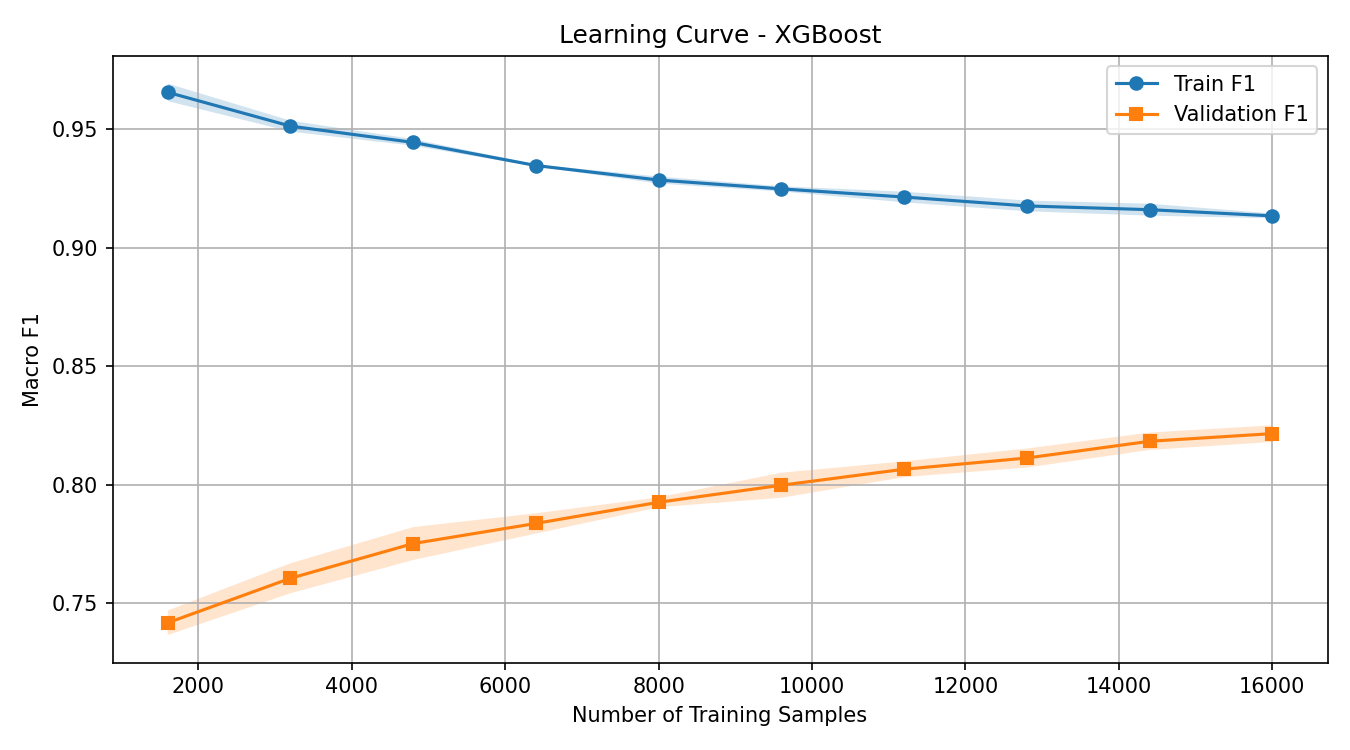
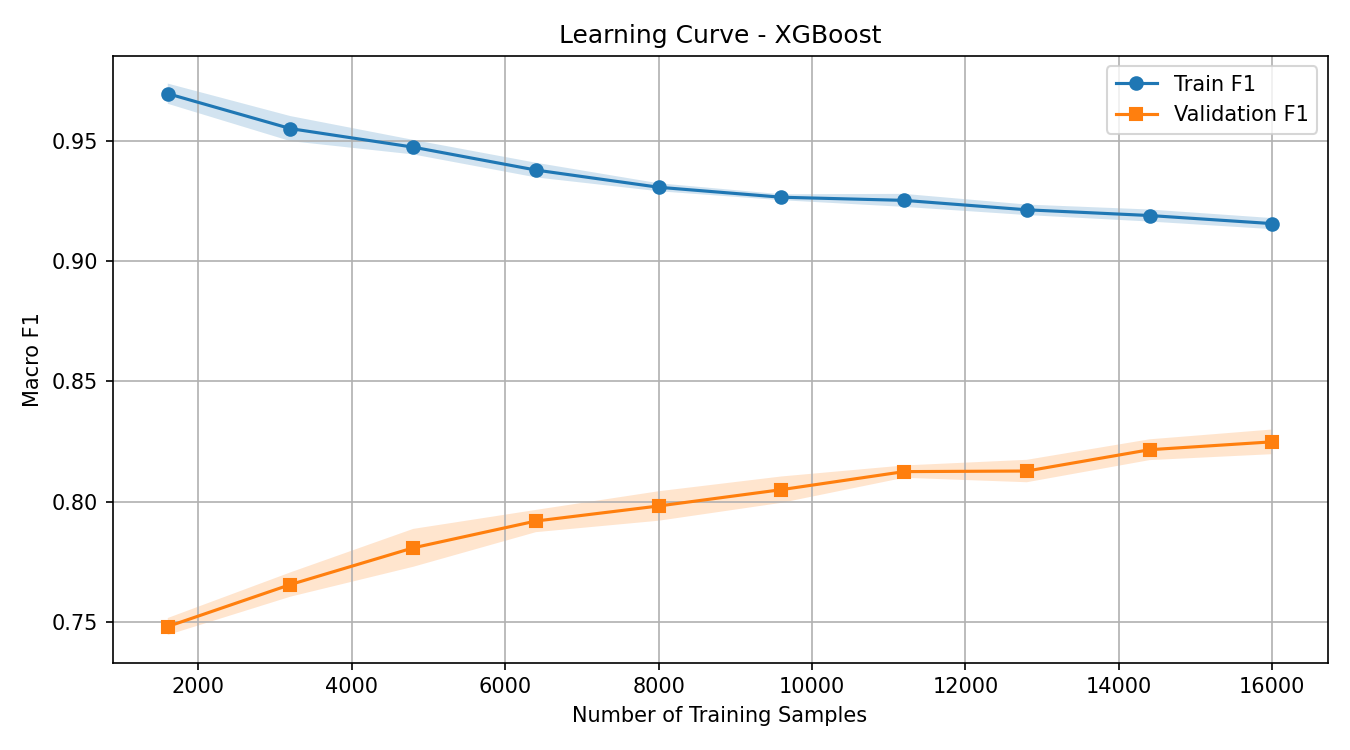
preprocessor: improve data processing logic

diff --git a/training/XGBoost_model.py b/training/XGBoost_model.py
@@ -1,15 +1,13 @@
 import os
 import sys
 import pandas as pd
+import re
 import numpy as np
 import joblib
 import xgboost as xgb
 import seaborn as sns
 import matplotlib.pyplot as plt
 
-from sklearn.pipeline import Pipeline
-from sklearn.compose import ColumnTransformer
-from sklearn.preprocessing import OneHotEncoder, StandardScaler, LabelEncoder
 from sklearn.model_selection import (
     train_test_split,
     RandomizedSearchCV,
@@ -18,6 +16,7 @@ from sklearn.model_selection import (
     cross_val_score
 )
 
+from sklearn.preprocessing import LabelEncoder
 from sklearn.metrics import (
     classification_report,
     confusion_matrix,
@@ -41,38 +40,52 @@ if not os.path.exists(data_path):
     print(f"❌ Data file not found at {data_path}")
     sys.exit(1)
 
-data = pd.read_csv(data_path)
-data.columns = data.columns.str.strip()
-print(f"✅ Loaded dataset: {data.shape[0]} rows, {data.shape[1]} columns")
+df_raw = pd.read_csv(data_path)
+df_raw.columns = df_raw.columns.str.strip()
+print(f"✅ Loaded dataset: {df_raw.shape[0]} rows, {df_raw.shape[1]} columns")
 
-feature_cols = [
-    'age',
-    'gender',
-    'school_type',
-    'parent_education',
-    'study_hours',
-    'attendance_percentage',
-    'internet_access',
-    'travel_time',
-    'extra_activities',
-    'study_method', 'math_score', 'science_score', 'english_score'
-]
+# 2. Tiền xử lý dữ liệu bằng DataPreprocessor từ backend
+print("🔄 Preprocessing features using backend DataPreprocessor...")
+processed_records = []
+for _, row in df_raw.iterrows():
+    processed_records.append(DataPreprocessor.preprocess_to_dict(row.to_dict()))
+
+df_processed = pd.DataFrame(processed_records)
+feature_cols_original = DataPreprocessor.get_feature_names()
+
+# Sanitize feature names to be XGBoost-safe (no <, >, [, ], or special chars)
+sanitized = []
+seen = {}
+for col in feature_cols_original:
+    s = re.sub(r'[^0-9a-zA-Z_]', '_', col)
+    if s in seen:
+        seen[s] += 1
+        s = f"{s}_{seen[s]}"
+    else:
+        seen[s] = 0
+    sanitized.append(s)
+
+mapping = dict(zip(feature_cols_original, sanitized))
+df_processed = df_processed.rename(columns=mapping)
+feature_cols = sanitized
+X_features = df_processed[feature_cols]
 
 print(f"📊 Feature count: {len(feature_cols)}")
+print(f"📊 Feature names: {feature_cols}")
+
+# Nhãn mục tiêu (A-F)
+target = df_raw['final_grade']
+
 print(f"📊 Target distribution:")
-print(data['final_grade'].value_counts().sort_index())
+print(target.value_counts().sort_index())
 print()
 
-X_features = data[feature_cols]
-target = data['final_grade']
-
-# 2. Encode target
+# Encode target labels to integers for XGBoost
 label_encoder = LabelEncoder()
 target_encoded = label_encoder.fit_transform(target)
-
 num_class = len(label_encoder.classes_)
 
-# 3. Train/Test Split
+# 3. Train/Test Split (sử dụng stratify để giữ phân bố lớp)
 X_train, X_test, y_train, y_test = train_test_split(
     X_features,
     target_encoded,
@@ -82,20 +95,9 @@ X_train, X_test, y_train, y_test = train_test_split(
 )
 print(f"📊 Train set: {X_train.shape[0]} rows, Test set: {X_test.shape[0]} rows\n")
 
-# 4. Tiền xử lý dữ liệu
-cat_cols = X_features.select_dtypes(include=['object']).columns
-num_cols = X_features.select_dtypes(exclude=['object']).columns
-
-preprocessor = ColumnTransformer([
-    ('num', StandardScaler(), num_cols),
-    ('cat', OneHotEncoder(handle_unknown='ignore'), cat_cols)
-])
-
 # 5. XGBoost Model
 clf_xgb = xgb.XGBClassifier(
-
     objective='multi:softprob',
-    num_class=num_class,
     eval_metric='mlogloss',
     n_estimators=100,
     learning_rate=0.1,
@@ -104,46 +106,32 @@ clf_xgb = xgb.XGBClassifier(
     n_jobs=-1
 )
 
-pipeline = Pipeline([
-    ('pre', preprocessor),
-    ('model', clf_xgb)
-])
-
 # 6. Randomized Search
 print("="*60)
 print("Hyperparameter Tuning with RandomizedSearchCV...")
 print("="*60 + "\n")
 
 param_grid = {
-    'model__max_depth': [3, 4, 5, 6],
-    'model__n_estimators': [100, 200, 300],
-    'model__learning_rate': [0.03, 0.05, 0.1],
-    'model__subsample': [0.7, 0.8, 0.9],
-    'model__colsample_bytree': [0.7, 0.8, 0.9],
-    'model__min_child_weight': [3, 5, 10, 15],
-    'model__reg_alpha': [0, 0.1, 0.5, 1],
-    'model__reg_lambda': [1, 2, 5, 10],
-    'model__gamma': [0, 0.1, 0.5] 
+    'max_depth': [3, 4, 5, 6],
+    'n_estimators': [100, 200, 300],
+    'learning_rate': [0.03, 0.05, 0.1],
+    'subsample': [0.7, 0.8, 0.9],
+    'colsample_bytree': [0.7, 0.8, 0.9],
+    'min_child_weight': [3, 5, 10, 15],
+    'reg_alpha': [0, 0.1, 0.5, 1],
+    'reg_lambda': [1, 2, 5, 10],
+    'gamma': [0, 0.1, 0.5]
 }
 
 search_cv = RandomizedSearchCV(
-
-    estimator=pipeline,
-
+    estimator=clf_xgb,
     param_distributions=param_grid,
-
     n_iter=30,
-
     cv=5,
-
     scoring='f1_macro',
-
     random_state=42,
-
     verbose=1,
-
     n_jobs=-1
-
 )
 
 print("⏳ Training model...")
@@ -168,11 +156,8 @@ print(f"{'='*60}")
 
 print("\nClassification Report:")
 
-print(classification_report(
-    y_test,
-    y_pred,
-    target_names=label_encoder.classes_
-))
+target_labels = list(label_encoder.classes_)
+print(classification_report(y_test, y_pred, target_names=target_labels))
 
 # 8. Confusion Matrix
 cm = confusion_matrix(y_test, y_pred)
@@ -180,19 +165,12 @@ cm = confusion_matrix(y_test, y_pred)
 plt.figure(figsize=(8,6))
 
 sns.heatmap(
-
     cm,
-
     annot=True,
-
     fmt='d',
-
     cmap='Blues',
-
-    xticklabels=label_encoder.classes_,
-
-    yticklabels=label_encoder.classes_
-
+    xticklabels=target_labels,
+    yticklabels=target_labels
 )
 
 plt.xlabel("Predicted")
@@ -253,6 +231,9 @@ else:
     print("✅ Model is stable")
 
 # 10. Cross-Validation trên toàn bộ dữ liệu
+# Lưu ý: selected_model đã được chọn (tune hyperparameter) dựa trên X_train,
+# nên số liệu CV này chủ yếu phản ánh ĐỘ ỔN ĐỊNH (variance) qua các fold,
+# KHÔNG phải một ước lượng generalization độc lập với dữ liệu train.
 print("\n" + "="*60)
 print("Cross-Validation on full dataset (5-fold)...")
 print("="*60)
@@ -267,13 +248,8 @@ print("="*60)
 print("Top 10 Most Important Features")
 print("="*60)
 try:
-    model = selected_model.named_steps['model']
-    importances = model.feature_importances_
-    
-    # Lấy feature names từ preprocessor
-    preprocessor = selected_model.named_steps['pre']
-    feature_names = preprocessor.get_feature_names_out()
-    
+    importances = selected_model.feature_importances_
+    feature_names = feature_cols
     indices = np.argsort(importances)[::-1][:10]
     for i, idx in enumerate(indices):
         print(f"  {i+1}. {feature_names[idx]}: {importances[idx]:.4f}")
@@ -286,21 +262,13 @@ print()
 print("⏳ Generating Learning Curve...")
 
 train_sizes, train_scores, val_scores = learning_curve(
-
     estimator=selected_model,
-
     X=X_train,
-
     y=y_train,
-
     cv=5,
-
     scoring='f1_macro',
-
     train_sizes=np.linspace(0.1,1.0,10),
-
     n_jobs=-1
-
 )
 
 train_mean = train_scores.mean(axis=1)
@@ -386,11 +354,9 @@ save_dir = '../models'
 os.makedirs(save_dir, exist_ok=True)
 
 model_path = os.path.join(save_dir, 'xgboost_model.pkl')
-encoder_path = os.path.join(save_dir, 'label_encoder_xgboost.pkl')
-
 joblib.dump(selected_model, model_path)
-joblib.dump(label_encoder, encoder_path)
-
 print(f"XGBoost model saved to: {model_path}")
+encoder_path = os.path.join(save_dir, 'label_encoder_xgboost.pkl')
+joblib.dump(label_encoder, encoder_path)
 print(f"Label encoder saved to: {encoder_path}")
 print("\n🎉 Pipeline completed successfully!")

diff --git a/backend/app/services/preprocessor.py b/backend/app/services/preprocessor.py
@@ -23,7 +23,6 @@ class DataPreprocessor:
     }
 
     # 3. Các danh mục định danh (Nominal) cần được One-Hot Encoding (3 danh mục trở lên)
-    # parent_education đã được chuyển sang Ordinal
     ONE_HOT_CATEGORIES = {
         "gender": ["male", "female", "other"],
         "travel_time": ["<15 min", "15-30 min", "30-60 min", ">60 min"],
@@ -34,7 +33,7 @@ class DataPreprocessor:
     BASE_COLUMNS = [
         "age", "study_hours", "attendance_percentage"
     ]
-    #bổ sung 3 cột điểm thành phần
+
     SCORE_COLUMNS = [
         "math_score", "science_score", "english_score"
     ]
@@ -55,6 +54,7 @@ class DataPreprocessor:
         Trả về danh sách đầy đủ tất cả các cột đặc trưng sau khi xử lý (tổng cộng 26 cột).
         Thứ tự các cột này sẽ luôn cố định để nạp vào mô hình ML.
         Bao gồm: 3 numerical + 3 score + 3 binary + 1 ordinal + 13 one-hot + 3 interaction = 26 cột.
+        Lưu ý: overall_score KHÔNG nằm trong danh sách này (data leakage).
         """
         columns = list(cls.BASE_COLUMNS)
         
@@ -88,8 +88,8 @@ class DataPreprocessor:
                     processed[col] = float(val)
                 else:
                     processed[col] = int(val)
-        
-        # 1b. Xử lý 3 cột điểm thành phần 
+
+        # 1b. Xử lý 3 cột điểm thành phần
         # Validate khoảng giá trị 0-100 để tránh input lỗi từ client làm sai lệch dự đoán.
         for col in cls.SCORE_COLUMNS:
             val = raw_data.get(col)
@@ -112,10 +112,11 @@ class DataPreprocessor:
                     
         # 4. Xử lý One-Hot Encoding cho các biến Nominal còn lại
         for col, categories in cls.ONE_HOT_CATEGORIES.items():
-            current_val = raw_data.get(col)
+            current_val = str(raw_data.get(col)).lower().strip()
             for cat in categories:
                 # Tạo cột mới dạng {tên_cột}_{danh_mục} có giá trị là 1 hoặc 0
-                processed[f"{col}_{cat}"] = 1 if str(current_val) == cat else 0
+                # Chuẩn hóa lower/strip để tránh vector 0 âm thầm khi input từ frontend không khớp case (vd "Male" thay vì "male").
+                processed[f"{col}_{cat}"] = 1 if current_val == cat else 0
 
         # 5. Tạo Interaction Features (đặc trưng tương tác)
         study_hours = processed.get("study_hours", 0.0)
@@ -129,7 +130,7 @@ class DataPreprocessor:
     @classmethod
     def preprocess_to_numpy(cls, raw_data: Dict[str, Any]) -> np.ndarray:
         """
-        Chuyển đổi dữ liệu học sinh thành mảng NumPy 2D (1, 23) sẵn sàng dự đoán.
+        Chuyển đổi dữ liệu học sinh thành mảng NumPy 2D (1, 26) sẵn sàng dự đoán.
         """
         processed_dict = cls.preprocess_to_dict(raw_data)
         ordered_cols = cls.get_feature_names()